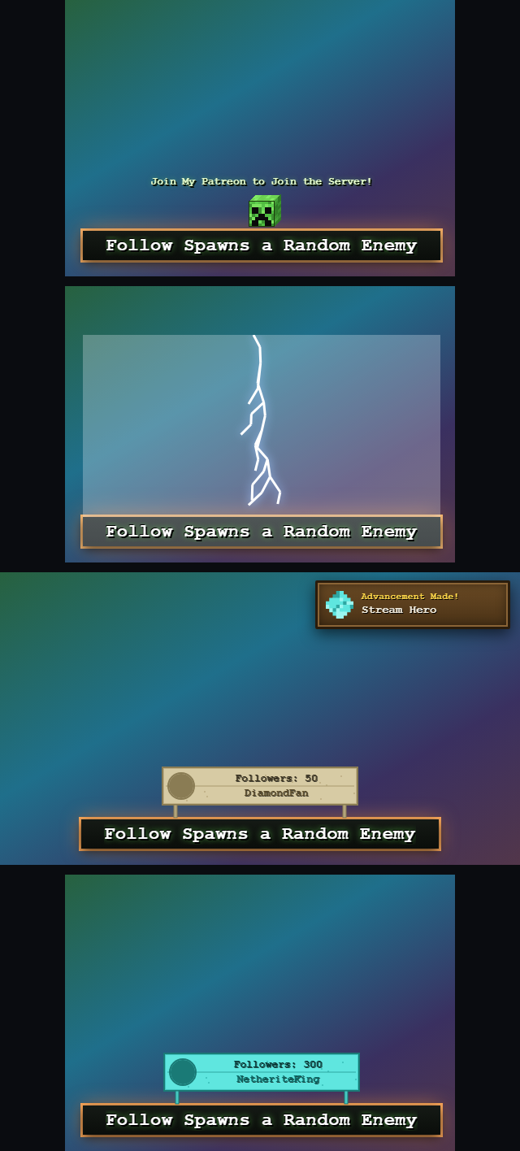
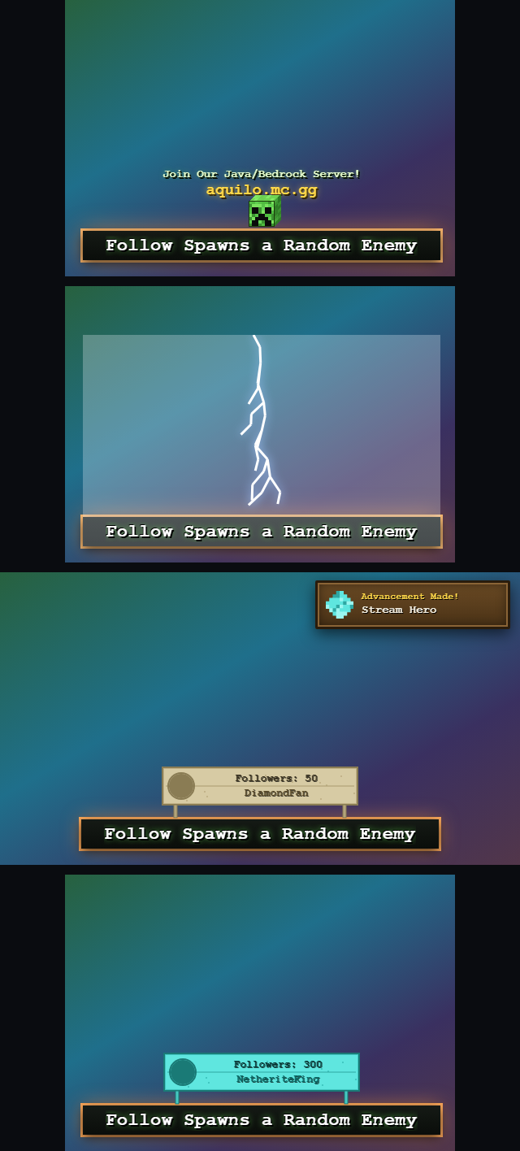
follow-minecraft: real-texture loader + server invite text
- Wire a plug-and-play real-Minecraft-texture loader: 3D cube front faces use
  textures/<mob>.png when present (?textures=<url> override, ?textures=off),
  falling back to procedural pixel-art so nothing breaks. Mojang textures are
  NOT bundled — supplied by the operator.
- Replace the idle promo with a hovering server invite: "Join Our Java/Bedrock
  Server!" + aquilo.mc.gg (gold) bobbing above the bar.

Changed region(s): [[0.2769, 0.1216, 0.7077, 0.1825]]

diff --git a/aquilo-gg/overlays/follow-minecraft/index.html b/aquilo-gg/overlays/follow-minecraft/index.html
@@ -538,7 +538,29 @@ const MOB3D = {
   axolotl: { base:["#f0a8c8","#e89cbe","#f6b2d0","#e494ba"], light:["#ffc8e0","#ffd2e8","#ffceE4","#ffc2dc"], dark:["#c87aa0","#bc7096","#d082a8","#b46a90"], outline:"#8a4a6a", hole:"#c24a7a",
     face:["X......X",".X....X.","..X..X..","........","........","...XX...","........","........"] },
 };
-const headImages = {};   // procedural only — kept so the renderer branch matches the template
+// Real Minecraft mob textures (front-face PNGs) loaded at runtime when present.
+// When a texture loads, the cube renderer uses it for the front face and falls
+// back to procedural pixel-art otherwise — so the overlay never breaks if a file
+// is missing. Default base ./textures/ ; override with ?textures=<url> ; disable
+// with ?textures=off. Files are named per mob, e.g. textures/creeper.png.
+const headImages = {};
+const TEXTURES_OFF = params.get("textures") === "off";
+const TEXTURE_BASE = ((params.get("textures") && !TEXTURES_OFF) ? params.get("textures") : "./textures/").replace(/\/?$/, "/");
+function loadMobTextures() {
+  if (TEXTURES_OFF) return;
+  Object.keys(MOB3D).forEach((name) => {
+    const img = new Image();
+    img.crossOrigin = "anonymous";
+    img.onload = () => {
+      if ((img.naturalWidth || 0) > 0) {
+        headImages[name] = img;
+        for (const k of [...cubeCache.keys()]) if (k.startsWith(name + "_")) cubeCache.delete(k);
+      }
+    };
+    img.onerror = () => {};   // silent — procedural fallback stays in place
+    img.src = TEXTURE_BASE + name + ".png";
+  });
+}
 
 const cubeCache = new Map();
 function getMobCube(mobName, size) {
@@ -693,14 +715,26 @@ function startMining() {
 // ============================================================
 // IDLE RENDER LOOP
 // ============================================================
+// Hovering server invite — two lines, bobbing together above the bar.
 function drawPromoText(now) {
-  const W = $aboveFX.width, H = $aboveFX.height, text = "Join My Patreon to Join the Server!";
-  const ty = H - 60, bob = Math.sin(now * 0.002) * 1.5;
+  const W = $aboveFX.width, H = $aboveFX.height, cx = W/2;
+  const bob = Math.sin(now * 0.002) * 1.5;
   aboveCtx.save();
-  aboveCtx.font = 'bold 13px "Courier New", monospace'; aboveCtx.textAlign = "center"; aboveCtx.textBaseline = "middle";
-  aboveCtx.fillStyle = "#000"; aboveCtx.fillText(text, W/2+1, ty+bob+1); aboveCtx.fillText(text, W/2+2, ty+bob+2);
+  aboveCtx.textAlign = "center"; aboveCtx.textBaseline = "middle";
+  // Line 1 — invite
+  const l1 = "Join Our Java/Bedrock Server!", y1 = H - 70 + bob;
+  aboveCtx.font = 'bold 14px "Courier New", monospace';
+  aboveCtx.fillStyle = "#000"; aboveCtx.fillText(l1, cx+1, y1+1); aboveCtx.fillText(l1, cx+2, y1+2);
   aboveCtx.shadowColor = "rgba(95,207,79,0.6)"; aboveCtx.shadowBlur = 6;
-  aboveCtx.fillStyle = "#e8ffd0"; aboveCtx.fillText(text, W/2, ty+bob); aboveCtx.restore();
+  aboveCtx.fillStyle = "#e8ffd0"; aboveCtx.fillText(l1, cx, y1);
+  aboveCtx.shadowBlur = 0;
+  // Line 2 — address (gold, larger, eye-catching)
+  const l2 = "aquilo.mc.gg", y2 = H - 50 + bob;
+  aboveCtx.font = 'bold 19px "Courier New", monospace';
+  aboveCtx.fillStyle = "#1a1206"; aboveCtx.fillText(l2, cx+1, y2+1); aboveCtx.fillText(l2, cx+2, y2+2);
+  aboveCtx.shadowColor = "rgba(245,210,80,0.75)"; aboveCtx.shadowBlur = 9;
+  aboveCtx.fillStyle = "#ffd84a"; aboveCtx.fillText(l2, cx, y2);
+  aboveCtx.restore();
 }
 function startIdleLoop() {
   if (state.totalFollowers > 0) state.signShowTime = performance.now();
@@ -1172,6 +1206,7 @@ connectTikfinity();
 // INIT
 // ============================================================
 resizeBg();
+loadMobTextures();          // use real Minecraft textures when present (procedural fallback)
 renderCTA();
 startIdleLoop();
 requestAnimationFrame(bgLoop);

diff --git a/aquilo-gg/overlays/follow-minecraft/README.md b/aquilo-gg/overlays/follow-minecraft/README.md
@@ -54,6 +54,7 @@ milestone tracking.
 | `tikfinity`  | `ws://host:port/`                        | TikFinity WebSocket URL (default `ws://localhost:21213/`) |
 | `particles`  | `souls` `snow` `leaves` `sparks` `none`  | ambient particle type (default: auto-rotates every 5 min) |
 | `cycle`      | `off` `dawn` `noon` `dusk` `midnight`    | force a day-night phase (`off` = static noon; default: 20-min cycle) |
+| `textures`   | `<url>` `off`                            | base URL for real mob textures (default `./textures/`; `off` = procedural only) |
 | `shot`       | `idle` `mining` `<scene>` `advancement` `counter` `dusk` | freeze a state for screenshots |
 
 `<scene>` = `creeper` `tnt` `lightning` `dragon` `beacon` `enderpearl` `wither`.
@@ -84,6 +85,29 @@ milestone tracking.
 - **Ambient**: drifting particles (souls/snow/leaves/sparks) + a 20-minute
   **day-night cycle** that tints the bar glow dawn→noon→dusk→midnight and fades
   in stars at night.
+- **Server invite**: a hovering *"Join Our Java/Bedrock Server!"* line with
+  **aquilo.mc.gg** beneath it bobs above the bar during idle.
+
+---
+
+## Real Minecraft textures
+
+The 3D mob cubes use a **real texture for the front face when one is present**,
+falling back to the built-in procedural pixel-art so nothing breaks if a file is
+missing. To use actual Minecraft textures:
+
+1. Create a `textures/` folder next to `index.html` (or host it anywhere and pass
+   `?textures=https://your-host/path/`).
+2. Drop in a front-face PNG per mob, named exactly:
+   `creeper.png`, `zombie.png`, `skeleton.png`, `enderman.png`, `witch.png`,
+   `blaze.png`, `slime.png`, `wither_skeleton.png`, `allay.png`, `axolotl.png`
+   (8×8 or 16×16 — it's scaled to the cube's front face).
+3. Reload — present files are used automatically; missing ones stay procedural.
+   `?textures=off` forces procedural.
+
+> These texture files are **not bundled** — supply your own (e.g. extracted from
+> your game install or a resource pack you have the rights to). Mojang's textures
+> are not redistributed in this repo.
 
 ---
 